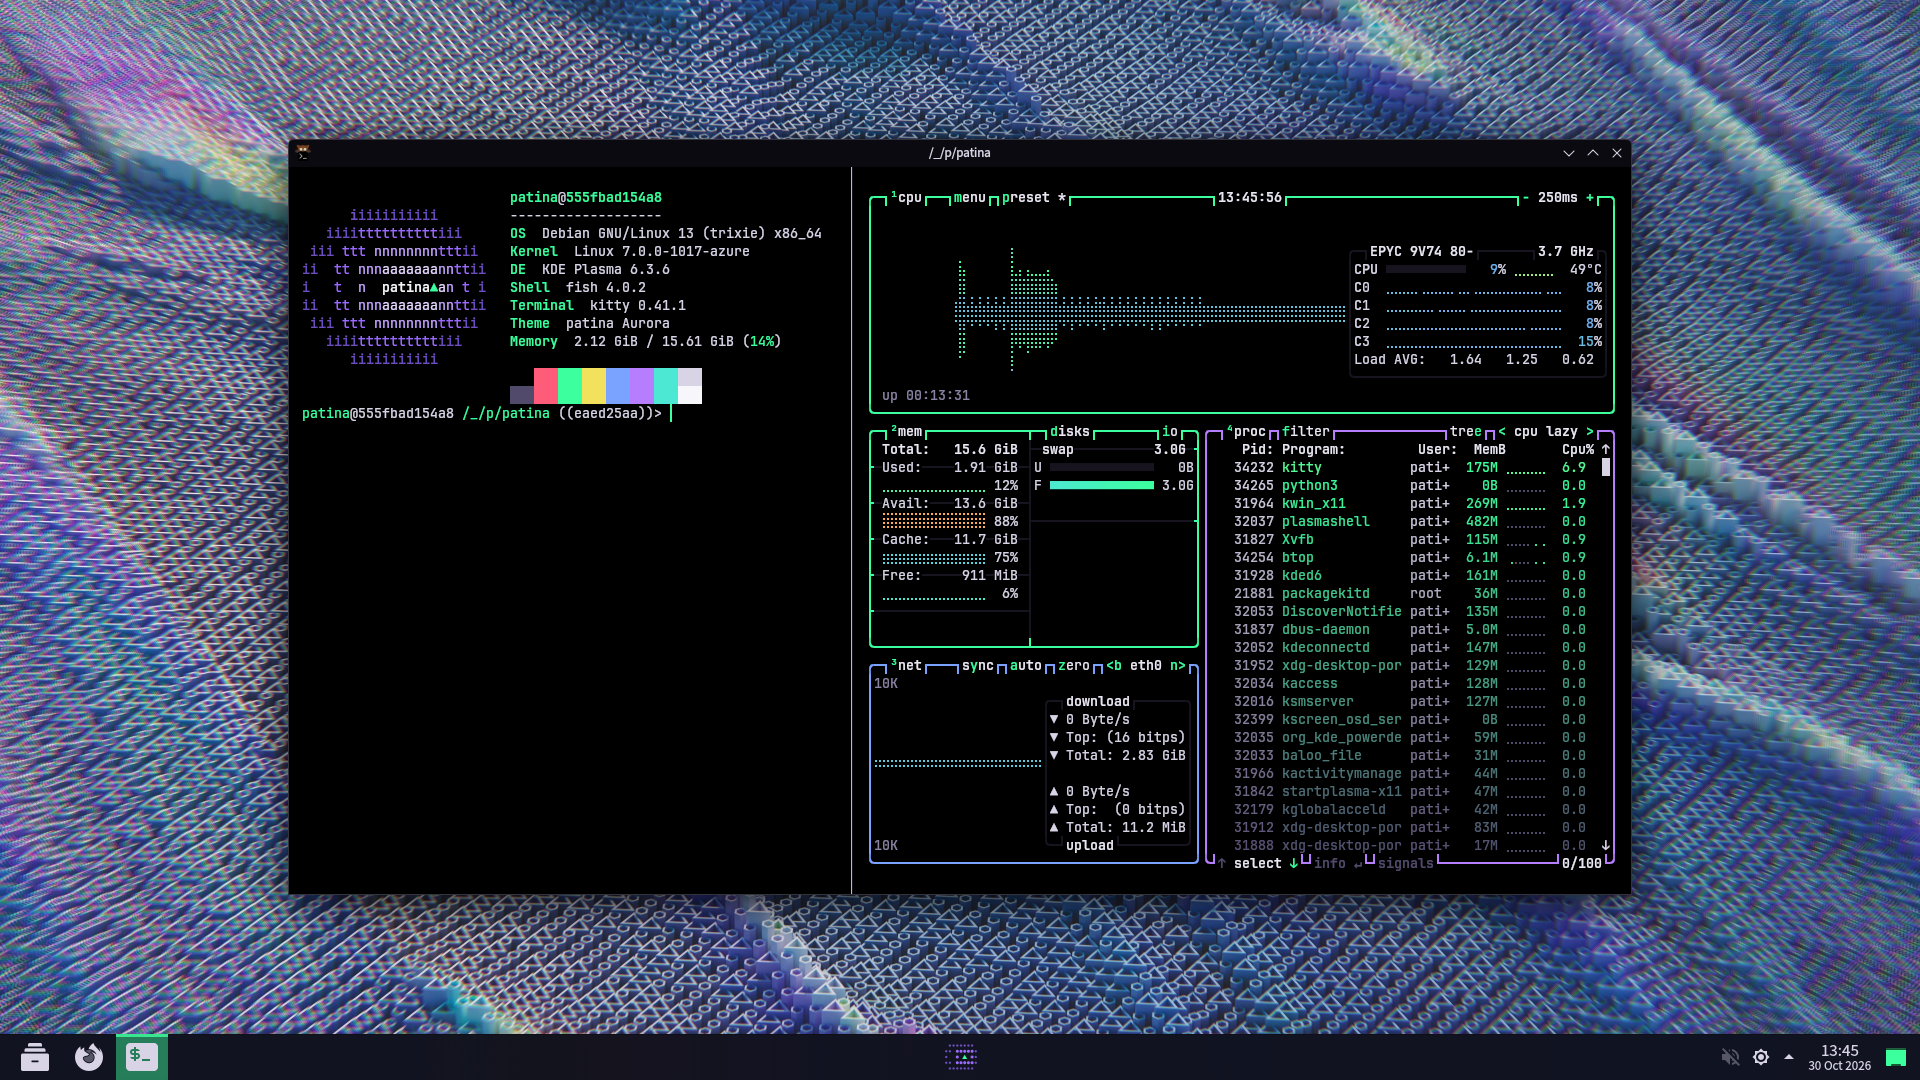
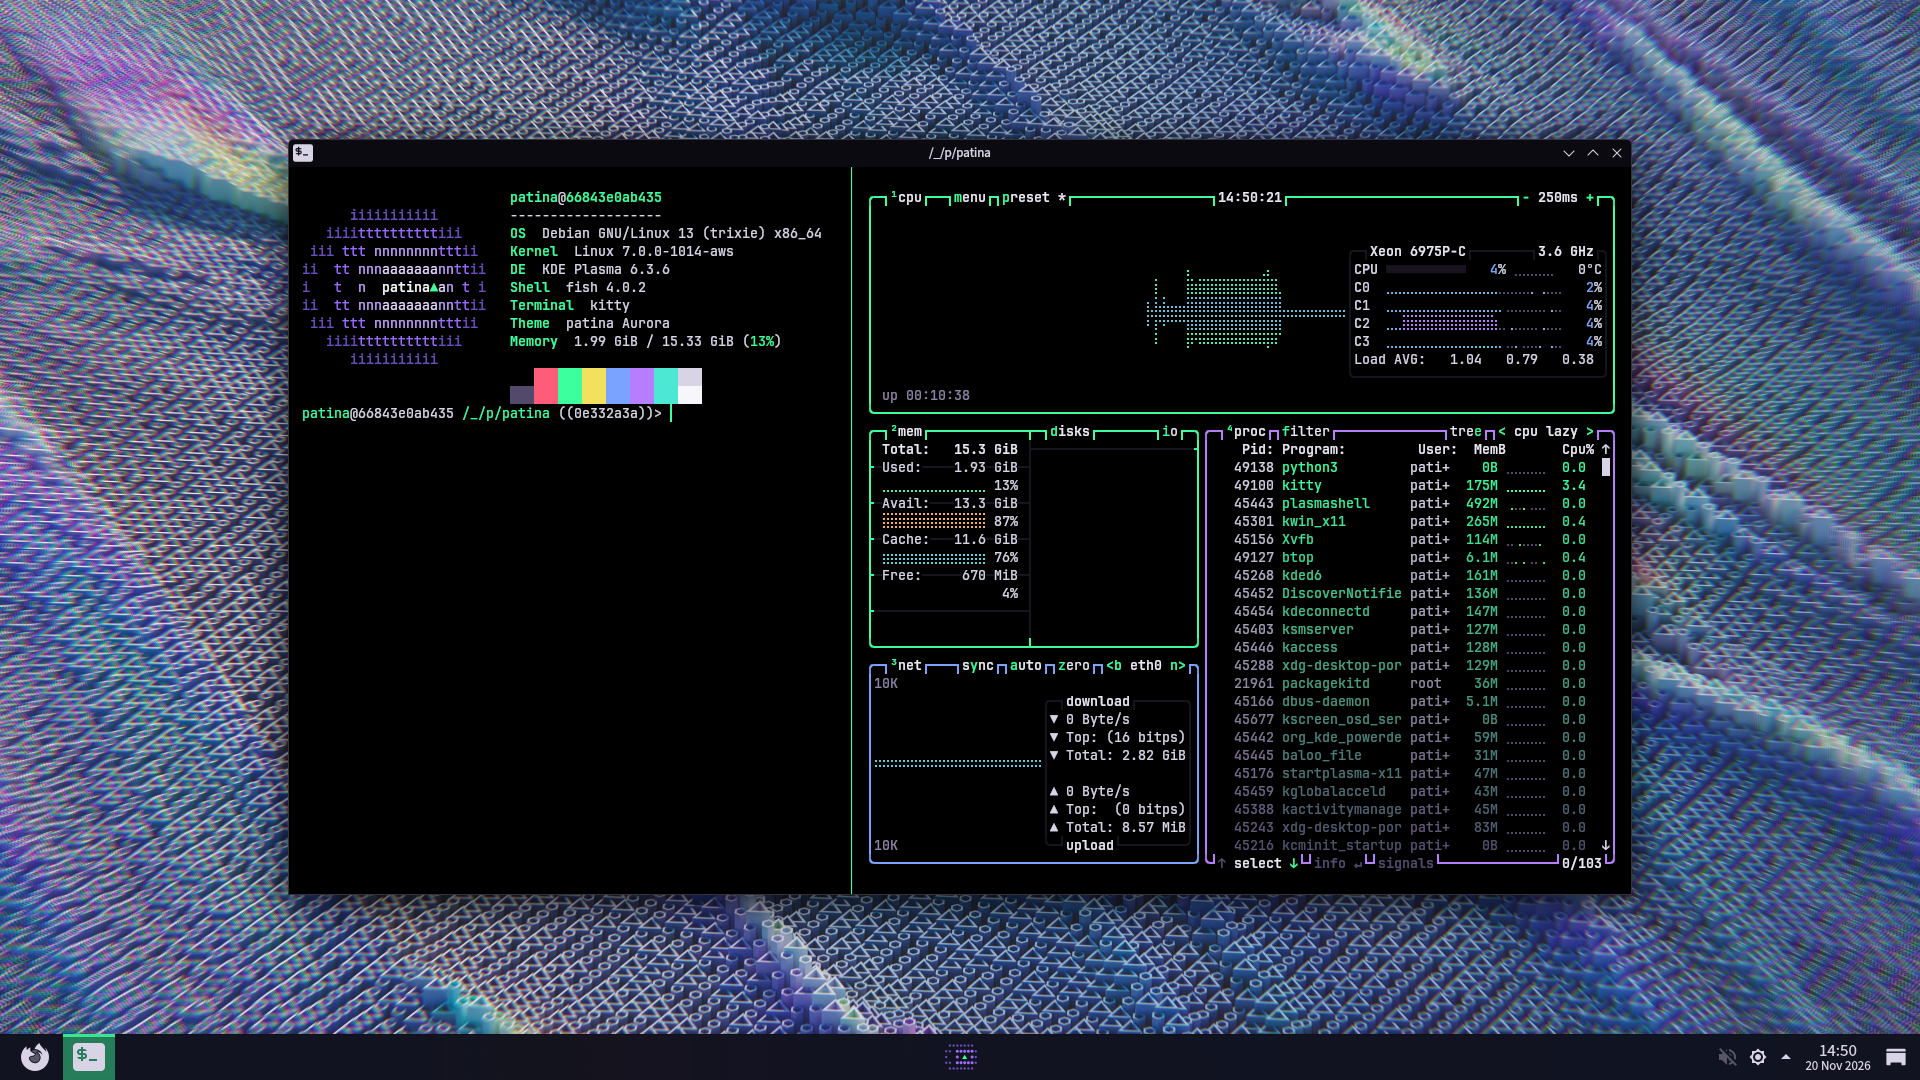
Refresh the README's screenshots from the desktop workflow
The desktop, command palette and start menu pictures as this pull
request's desktop run took them (run 44756416261), unedited: the bar
without Dolphin, and kortex 0.9.1 in KRunner, where a step that asks
starts with what it would do and has its answers as rows. The README's
words about the command palette say what the picture shows now.

Claude-Session: https://claude.ai/code/session_013UKWhTaW36hhdPcjxV62PD

diff --git a/README.md b/README.md
@@ -88,9 +88,10 @@ split in two: the fastfetch greeting beside btop.
 
 The command palette in the same session, in the middle of the empty desktop, dark
 glass with a light hairline round it: `ai install photocraft`, kortex's answer through
-a real `opencode serve` beside kortex's green ▲, and the agent asking first in its own
-words, with `patina install --bundles artcraft` under them, selected with a faint green
-tint and waiting for Allow once, Always or Deny. The model is kortex's scripted demo
+a real `opencode serve`, and the agent asking first: what the step would do, in
+kortex's words ("Installs or removes software"), the agent's own, and `patina install
+--bundles artcraft` under them, selected with a faint green tint; below it the answers
+as rows, Allow this once and Don't, stop here. The model is kortex's scripted demo
 model, since CI has none to run.
 
 ![KRunner with kortex in the middle of the desktop: the agent asks before it installs the artcraft bundle for PhotoCraft](docs/screenshots/command-palette-amd64.png)
